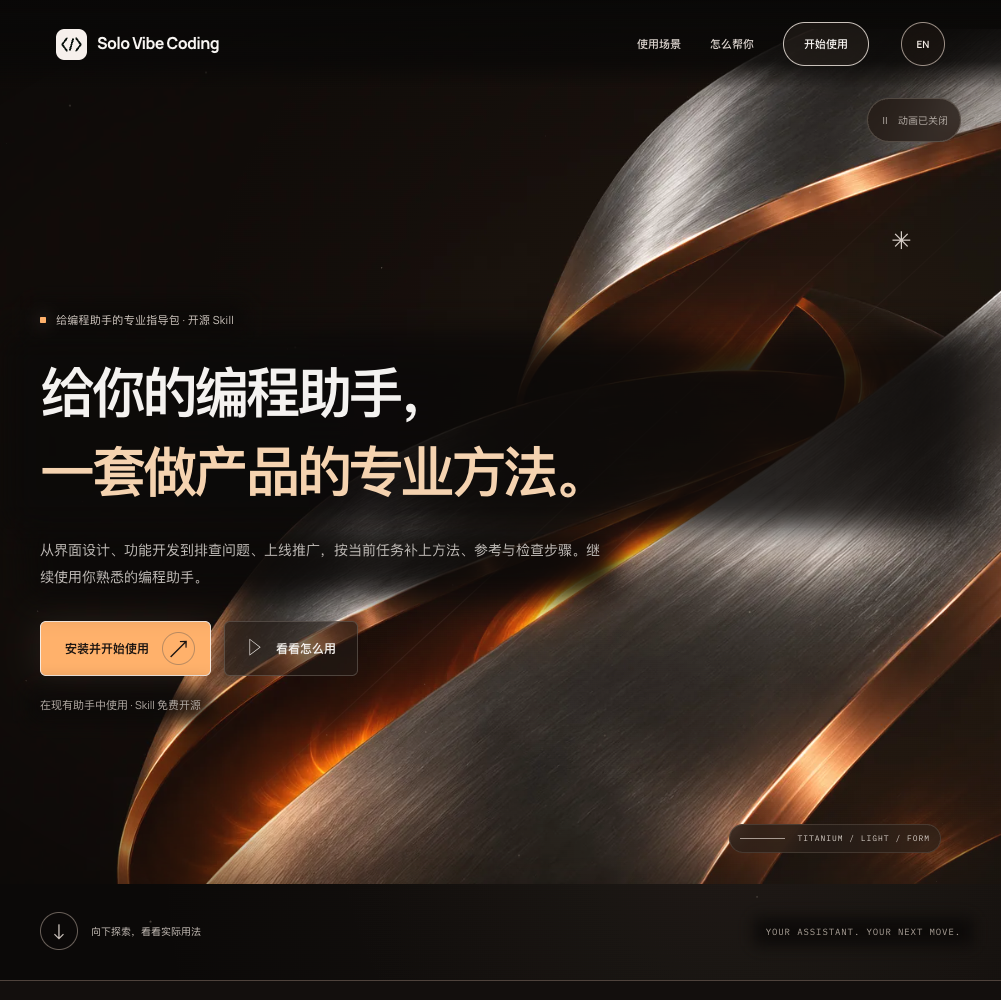
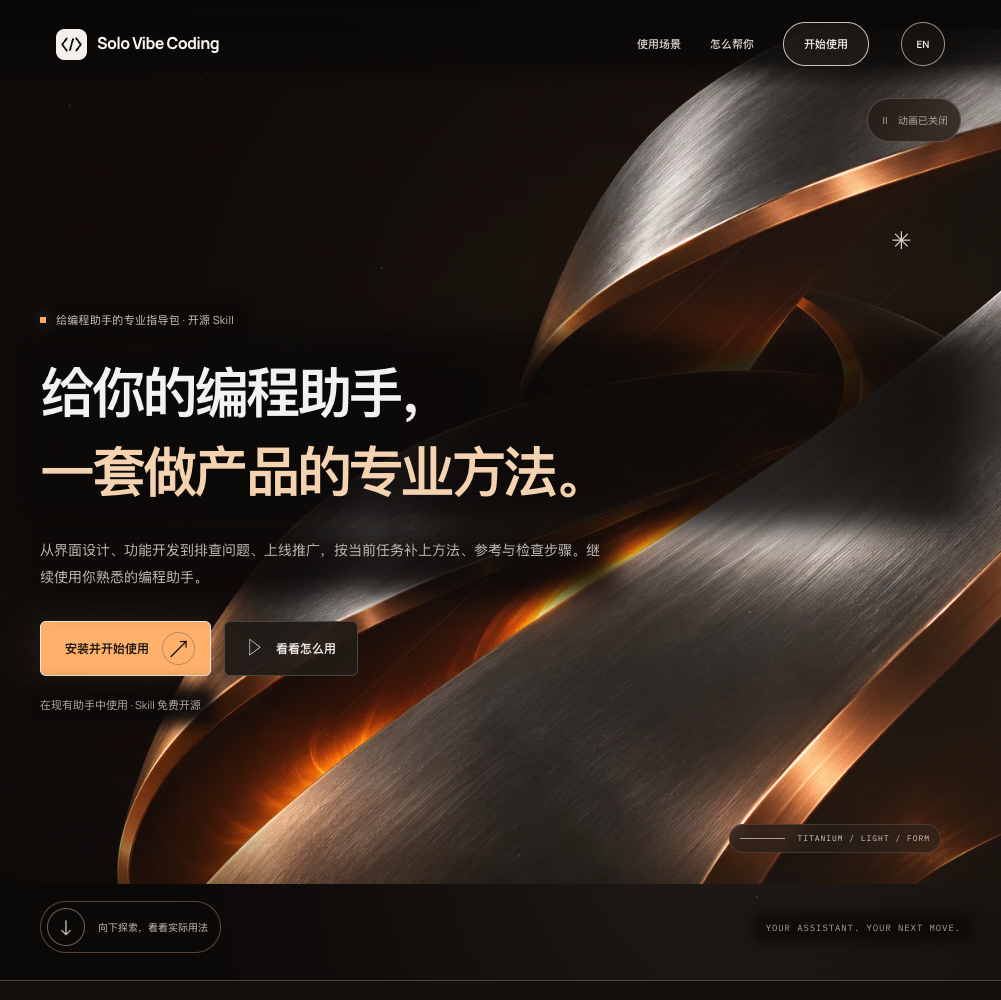
docs: archive verified titanium homepage publication

Changed region(s): [[0.031, 0.899, 0.2168, 0.961], [0.2478, 0.62, 0.3716, 0.682], [0.1548, 0.682, 0.2168, 0.744]]

diff --git a/docs/research/website/2026-11-15-ember-titanium/deployment.md b/docs/research/website/2026-11-15-ember-titanium/deployment.md
@@ -1,5 +1,23 @@
 # 黑钛熔光版发布核验
 
-用户已授权完成后发布GitHub Pages。隔离分支为 `website/ember-titanium`，工程基线为 `471e3cd`；本地验证与独立审查完成后，沿现有main工作流发布，不修改部署配置。
+## 发布结果
 
-公开核验在发布完成后归档：核对待发布SHA与CI/部署SHA一致；检查中英桌面和手机、任务刷新/语言/开始连续性、实际图片、报价CSV、起始项目ZIP、内页和sitemap。不能仅用本地检查宣称公开版本已成功。
+- 用户已授权完成后发布；隔离分支 `website/ember-titanium` 已快进合入主工作区并推送main。
+- 运行源码提交：`83c5dbaa044c5ee6dfb9dbc8a564181c8e8c5256`，工程基线为 `471e3cd`。
+- [Website运行43695431149](https://github.com/jmaxzh/solo-vibe-coding/actions/runs/43695431149)的检查和部署均成功，CI完整54项通过（2.3分钟）。[actions.json](actions.json)记录相同headSha。
+- Pages deployment `7800947573`，SHA与源码一致，状态success；[状态证据](deployment-status.json)记录正式网址。沿用原Actions与Pages配置。
+- [中文版](https://jmaxzh.github.io/solo-vibe-coding/zh-CN/?v=83c5dba)、[英文版](https://jmaxzh.github.io/solo-vibe-coding/?v=83c5dba)可实际打开操作。
+
+## 公开浏览器检查
+
+[production-check.json](production-check.json)记录2026-11-15的四组中英桌面/手机核验：新金属素材路径、尺寸与加载成功，任务选择后刷新和切换语言保持，进入上手页延续growth任务；报价1955.00及带BOM的CSV下载正确；实际案例图片与起始ZIP可加载/下载；无横向溢出、页面错误或失败资源。
+
+另外12个内页和sitemap地址返回200；域名根robots.txt仍为404，未发现新增阻断。生产首屏保存于screenshots/production开头的四张图片，桌面1440×1000、手机390×844。
+
+首次调用复用的核验脚本时，旧主题色预期仍为#070b0d，导致断言失败；按本版已采用的#0b0908同步预期，并显式核对新素材路径与图片解码后，完整公开核验通过。没有删除断言或修改页面来适配旧预期。
+
+最终状态的结构审查再次完成：120组任务布局、30组动画控件命中、28组内页对照通过，结果及边界截图已刷新。[验证记录](verification.md)与[独立审查](independent-review.md)保留范围和限制。
+
+## 工作区与后续边界
+
+两份原有Skill修改始终未提交，指纹与[制作前既有记录](../2026-11-15-design-standard/change-evaluation.md)一致。发布后归档只改docs/research/下的记录、截图和核验工具，不改变运行源码或生产配置，不需要重复部署；[发布归档独立审查](release-review.md)已通过。工程成功与用户对本版审美的认可分别判断；尚无真实用户理解、首次使用或实体设备性能研究。

diff --git a/docs/research/website/2026-11-15-ember-titanium/change-evaluation.md b/docs/research/website/2026-11-15-ember-titanium/change-evaluation.md
@@ -16,6 +16,6 @@
 
 主图127248→109224 bytes，减少18024 bytes。完整发布产物973254→955842 bytes，减少17412 bytes（约1.8%）；JavaScript17256→17274 bytes，增加18 bytes。最大HTML48663→48666 bytes；均在原有预算内。没有新增依赖、字体、后端、统计服务、框架或发布配置。
 
-图片与脚本字节数不等于真实网络性能。持续动效仍有绘制成本；制作原图、双语截图和对照档案另增加约34.2 MiB仓库材料，不进入发布产物或运行依赖。参数与原始数值见[metrics.json](metrics.json)、[截图测量](screenshots.json)和[布局对照](audit.json)。
+图片与脚本字节数不等于真实网络性能。持续动效仍有绘制成本；制作原图、双语截图和对照档案另增加约36.9 MiB仓库材料，不进入发布产物或运行依赖。参数与原始数值见[metrics.json](metrics.json)、[截图测量](screenshots.json)和[布局对照](audit.json)。
 
 本轮可确认的是另一套完整材质表达已实现、已有行为受到检查、资源预算保持；规范的跨项目复用价值、目标用户理解与总体Pareto改善尚不能从本次维护推出。

diff --git a/docs/research/website/2026-11-15-ember-titanium/release-review.md b/docs/research/website/2026-11-15-ember-titanium/release-review.md
@@ -1,0 +1,9 @@
+# 黑钛版发布归档独立审查
+
+新上下文只读代理 `review_ember_release` 独立核对授权目标、真实归档diff、原始JSON、公开页面、Actions和Pages API，再检查维护评价。结论为通过，未发现阻断归档的确认缺陷；全程未修改文件。
+
+- Actions 43695431149、CI日志及deployment 7800947573均对应83c5dba，完整54项通过并部署成功。公开中文页面返回200，新金属素材、尺寸、主题与布局正确。
+- 发布记录和原始证据一致：四组公开视口及120/30/28结构检查均通过。核验脚本保留原行为断言，只同步本版主题色并新增素材路径与解码确认。
+- 归档变更限定docs/research；原工作流排除该目录，无需重建。两份Skill当前指纹与471e3cd中既有记录完全一致，Skill提交差异为空，主工作区仅保留这两份原有修改。
+- 归档实测38702962 bytes，约36.9 MiB，与评价相符；原审查记录34.2 MiB属于发布前时点，不改写历史。
+- 技术通过未被写为用户认可或总体Pareto改善。用户审美反馈、真实试用与实体设备效果仍未验证。

diff --git a/docs/research/website/2026-11-15-ember-titanium/verification.md b/docs/research/website/2026-11-15-ember-titanium/verification.md
@@ -21,3 +21,9 @@
 | 工程 | 本地构建、链接、预算、测试及内页对照通过；正式发布另以实际CI、部署及公开浏览器核验为准 |
 
 局部像素抽样与axe检查不代表完整WCAG认证；减小资源、粒子与设定帧率不等于已验证真实网络、流畅度或功耗。发布记录见[deployment.md](deployment.md)，独立意见见[independent-review.md](independent-review.md)。
+
+## 正式CI与公开核验
+
+GitHub Actions 43695431149的检查与Pages部署均成功；Node.js24和匹配Chromium下完整54项通过（2.3分钟），运行SHA为83c5dbaa044c5ee6dfb9dbc8a564181c8e8c5256。新金属素材、四组公开视口、任务/语言/上手连续性、报价CSV和案例ZIP均通过，12个内页/sitemap返回200，页面错误与失败资源为空。详见[发布记录](deployment.md)及其原始JSON。
+
+最终源码的结构审查另重跑120/30/28组，全部通过，替换早期边界截图。上述结果仍不替代用户审美确认、真实用户试用、完整辅助技术或实体设备研究。

diff --git a/docs/research/website/2026-11-15-ember-titanium/README.md b/docs/research/website/2026-11-15-ember-titanium/README.md
@@ -2,6 +2,8 @@
 
 使用电影感材质官网设计规范制作的新版本，以玻璃版 `471e3cd` 为工程与画面基准。新版本的审美效果由用户查看后判断；技术检查与独立审查不代替用户认可或真实用户研究。
 
+[打开中文版](https://jmaxzh.github.io/solo-vibe-coding/zh-CN/?v=83c5dba) · [Open English](https://jmaxzh.github.io/solo-vibe-coding/?v=83c5dba)
+
 ## 截图
 
 全部使用生产构建、相同语言和视口、减少动态效果状态；桌面 1440×1000，手机 390×844。
@@ -25,3 +27,4 @@
 - [独立只读审查](independent-review.md)
 - [原创素材、最终文件与生成提示](visual-assets.md)
 - [公开发布核验](deployment.md)
+- [发布归档独立审查](release-review.md)
